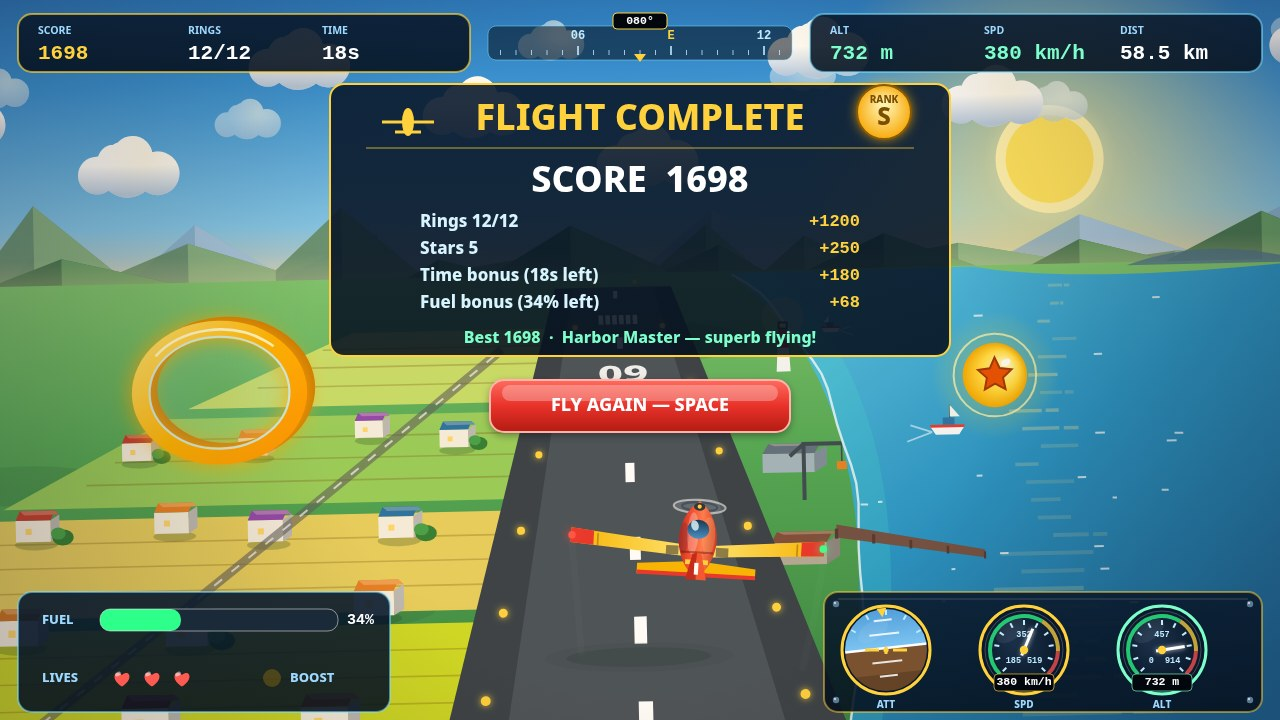
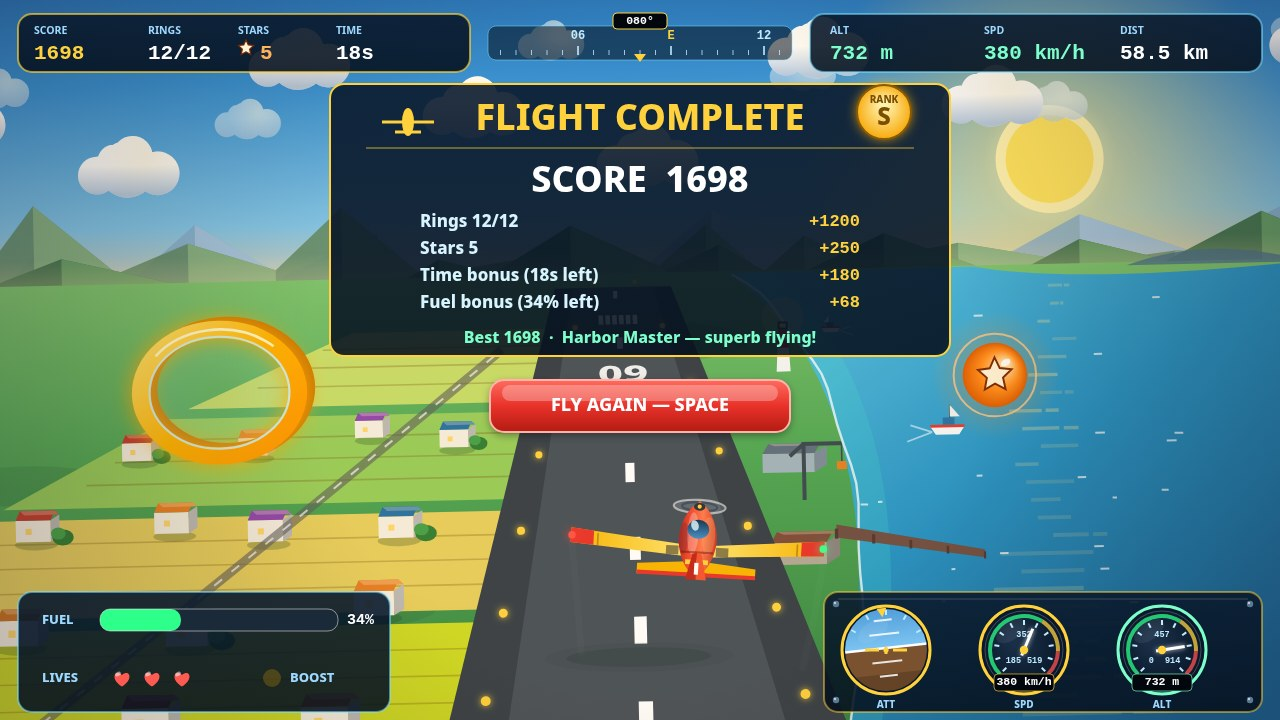
Trap storm guards for rings, amber orb, HUD star tally
- world.js: about one ring in three spawns a guard storm at the
  same depth, 80-115 collision px from the ring centre (ring scores
  within 105, cloud hits within 62), so the centre always stays
  passable but a sloppy line is punished; capped at 6 clouds
- shots.js: play shot stages that trap — a storm crowds the near
  ring's lower-left rim while the centre and the plane's line
  stay clear
- render.js: orb body is amber-orange with a pale cream star glyph
  (was yellow-gold like the rings, glyph orange-red); legend mini
  orb matches; HUD gains a STARS tally beside RINGS, from s.stars

diff --git a/game/src/render.js b/game/src/render.js
@@ -1034,27 +1034,28 @@ export function createRenderer(canvas) {
         ctx.restore();
         if (it.z < 200) nearRing = {x, y, r: rr2, lw, squash};
       } else if (it.kind === 'star') {
-        // checkpoint orb: a glossy gold sphere in a thin ring of light,
-        // with a deep orange-red star glyph on its face — strong
-        // contrast so the star still reads at screenshot size
+        // checkpoint orb: a glossy AMBER-ORANGE sphere in a thin ring
+        // of light — orange by hue, so it separates at a glance from
+        // the yellow-gold rings; the star glyph is pale cream with a
+        // dark outline, so it stays readable on the orange face
         const rs = r * 0.52;
         ctx.save();
         const glow = ctx.createRadialGradient(x, y, rs * 0.2, x, y, rs * 2.0);
-        glow.addColorStop(0, 'rgba(255,220,40,0.38)');
-        glow.addColorStop(1, 'rgba(255,220,40,0)');
+        glow.addColorStop(0, 'rgba(255,138,20,0.40)');
+        glow.addColorStop(1, 'rgba(255,138,20,0)');
         ctx.fillStyle = glow;
         ctx.beginPath(); ctx.arc(x, y, rs * 2.0, 0, 7); ctx.fill();
-        ctx.strokeStyle = 'rgba(255,240,170,0.75)';
+        ctx.strokeStyle = 'rgba(255,196,130,0.8)';
         ctx.lineWidth = 2;
         ctx.beginPath(); ctx.arc(x, y, rs * 1.28, 0, 7); ctx.stroke();
         const sph = ctx.createRadialGradient(x + rs * 0.35, y - rs * 0.35, rs * 0.1, x, y, rs);
-        sph.addColorStop(0, '#fff6ae'); sph.addColorStop(0.55, '#ffd93d'); sph.addColorStop(1, '#f0a500');
+        sph.addColorStop(0, '#ffdca3'); sph.addColorStop(0.55, '#ff8c1a'); sph.addColorStop(1, '#dd5a00');
         ctx.fillStyle = sph;
         ctx.beginPath(); ctx.arc(x, y, rs, 0, 7); ctx.fill();
-        ctx.fillStyle = '#e64d00';
+        ctx.fillStyle = '#fff3d6';
         starPath(x, y, rs * 0.55);
         ctx.fill();
-        ctx.strokeStyle = '#9c3200';
+        ctx.strokeStyle = '#7a2800';
         ctx.lineWidth = Math.max(1.2, rs * 0.06);
         starPath(x, y, rs * 0.55);
         ctx.stroke();
@@ -1176,9 +1177,20 @@ export function createRenderer(canvas) {
       hudStat('SPD', spdKmh(s.speed) + ' km/h', 1066, '#7dffcb');
     } else {
       panel(18, 14, 452, 58, 'rgba(255,210,61,0.65)');
-      hudStat('SCORE', String(s.score), 38, '#ffd23d');
-      hudStat('RINGS', s.rings + '/12', 188, '#ffffff');
-      hudStat('TIME', Math.ceil(s.left) + 's', 322, s.left < 15 ? '#ff8a80' : '#ffffff');
+      hudStat('SCORE', String(s.score), 34, '#ffd23d');
+      hudStat('RINGS', s.rings + '/12', 148, '#ffffff');
+      // star tally beside the rings count: the orb's cream star glyph
+      // at pill scale, with the collected count from the world state
+      text('STARS', 238, 31, 10.5, '#9fd8ff', 'left', 700);
+      ctx.fillStyle = '#fff3d6';
+      starPath(246, 48, 8);
+      ctx.fill();
+      ctx.strokeStyle = '#7a2800';
+      ctx.lineWidth = 1.2;
+      starPath(246, 48, 8);
+      ctx.stroke();
+      textM(String(s.stars), 260, 54, 21, '#ffb35c', 'left');
+      hudStat('TIME', Math.ceil(s.left) + 's', 336, s.left < 15 ? '#ff8a80' : '#ffffff');
       panel(810, 14, 452, 58, 'rgba(125,223,255,0.55)');
       hudStat('ALT', altM(s.alt) + ' m', 830, '#7dffcb');
       hudStat('SPD', spdKmh(s.speed) + ' km/h', 984, '#7dffcb');
@@ -1300,18 +1312,19 @@ export function createRenderer(canvas) {
       ctx.beginPath(); ctx.ellipse(348, 302, 12, 11, 0, 0, 7); ctx.stroke();
       ctx.restore();
       text('Ring — fly through +100', 370, 302, 14.5, '#eaf7ff', 'left');
-      // mini orb: the checkpoint sphere with its contrast star
-      ctx.strokeStyle = 'rgba(255,240,170,0.75)';
+      // mini orb: the checkpoint sphere with its contrast star —
+      // same amber-orange body and cream glyph as the course orb
+      ctx.strokeStyle = 'rgba(255,196,130,0.8)';
       ctx.lineWidth = 1.6;
       ctx.beginPath(); ctx.arc(578, 302, 14, 0, 7); ctx.stroke();
       const lsg = ctx.createRadialGradient(582, 298, 1, 578, 302, 11);
-      lsg.addColorStop(0, '#fff6ae'); lsg.addColorStop(0.55, '#ffd93d'); lsg.addColorStop(1, '#f0a500');
+      lsg.addColorStop(0, '#ffdca3'); lsg.addColorStop(0.55, '#ff8c1a'); lsg.addColorStop(1, '#dd5a00');
       ctx.fillStyle = lsg;
       ctx.beginPath(); ctx.arc(578, 302, 11, 0, 7); ctx.fill();
-      ctx.fillStyle = '#e64d00';
+      ctx.fillStyle = '#fff3d6';
       starPath(578, 302, 6);
       ctx.fill();
-      ctx.strokeStyle = '#9c3200';
+      ctx.strokeStyle = '#7a2800';
       ctx.lineWidth = 1;
       starPath(578, 302, 6);
       ctx.stroke();

diff --git a/game/src/world.js b/game/src/world.js
@@ -4,7 +4,26 @@ export const EVENT_RING=1, EVENT_HIT=2, EVENT_OVER=4;
 export function createWorld(rand){
  const s={time:0,left:RUN_SECONDS,score:0,rings:0,stars:0,lives:LIVES,alt:1240,speed:186,heading:74,pitch:0,bank:0,x:640,y:360,fuel:86,dist:0,items:[],flash:0,seedOff:0,fx:[],boost:false,cloudShift:0};
  let spawn=0, ringsSpawned=0;
- function add(kind,z){ const it={kind,z:z??(900+rand()*500),lane:(rand()*2-1),h:(rand()*2-1),done:false}; if(kind==='ring'){ ringsSpawned++; it.big = ringsSpawned===12; } s.items.push(it); }
+ function add(kind,z){ const it={kind,z:z??(900+rand()*500),lane:(rand()*2-1),h:(rand()*2-1),done:false}; if(kind==='ring'){ ringsSpawned++; it.big = ringsSpawned===12; } s.items.push(it); if(kind==='ring') trapFor(it); }
+ // Trap pattern, mixed in with the fully random spawns: about one
+ // ring in three also gets a storm cell guarding it at the same
+ // depth, crowding one edge of the ring. Distances are collision
+ // space (a ring scores within 105 of its centre, a cloud hits
+ // within 62), so a guard centre 80–115 away always leaves the
+ // ring centre cleanly passable — it punishes a sloppy line, never
+ // blocks the ring. Capped so the course never floods with storms.
+ function trapFor(ring){
+   if(rand()>=0.34) return;
+   let clouds=0; for(const i of s.items) if(i.kind==='cloud') clouds++;
+   if(clouds>=6) return;
+   for(let k=0;k<6;k++){
+     const a=rand()*Math.PI*2, d=80+rand()*35;
+     const lane=ring.lane+Math.cos(a)*d/260, h=ring.h+Math.sin(a)*d/120;
+     if(lane<-1.35||lane>1.35||h<-1||h>1) continue;
+     s.items.push({kind:'cloud',z:ring.z+(rand()*40-20),lane,h,done:false});
+     return;
+   }
+ }
  function popup(text,kind,burst){ s.fx.push({x:s.x+(rand()*70-35),y:s.y-95,text,kind,t:0,burst:!!burst,seed:rand()*3}); }
  function reset(){ Object.assign(s,{time:0,left:RUN_SECONDS,score:0,rings:0,stars:0,lives:LIVES,alt:1240,speed:186,heading:74,pitch:0,bank:0,x:640,y:360,fuel:86,dist:0,items:[],flash:0,fx:[],boost:false,cloudShift:0}); spawn=0; ringsSpawned=0; for(let i=0;i<7;i++) add(i%3==2?'cloud':'ring',300+i*190); }
  function step(dt,move,title){

diff --git a/game/src/shots.js b/game/src/shots.js
@@ -6,7 +6,8 @@ import {SCREEN_TITLE, SCREEN_PLAY, SCREEN_OVER} from './render.js';
 // of the harbour — different plane position, altitude and distance, so
 // the parallaxed terrain, harbour and runway compose differently in
 // every shot. Items are placed so the ring, star, storm cloud, plane
-// and UI never overlap.
+// and UI never overlap — with one deliberate exception in the play
+// shot, where a trap storm crowds the near ring (see there).
 export function stageShot(name, world) {
   world.reset();
   const s = world.state;
@@ -20,7 +21,11 @@ export function stageShot(name, world) {
     // horizon: two rings ahead in a near-concentric pair chained by
     // the guide line, star off the left wingtip, storm cell over the
     // harbour edge, and the +FUEL popup floats over the plane where a
-    // ring pass would have spawned it.
+    // ring pass would have spawned it. A second storm plays the trap
+    // the game now spawns for real: it crowds the near ring's
+    // lower-left rim, so the still reads "thread the clear centre,
+    // mind the storm" — the ring centre and the plane's line to it
+    // stay clear above the cell.
     s.time = 24; s.left = 90 - s.time;
     s.score = 400; s.rings = 4; s.stars = 3;
     s.alt = 2400; s.speed = 198; s.fuel = 72; s.dist = 8.2;
@@ -30,6 +35,7 @@ export function stageShot(name, world) {
       {kind: 'ring', z: 300, lane: 0.10, h: -1.00, done: false},
       {kind: 'ring', z: 850, lane: 0.34, h: -1.00, done: false},
       {kind: 'star', z: 520, lane: -1.15, h: -1.00, done: false},
+      {kind: 'cloud', z: 330, lane: -0.27, h: 0.17, done: false},
       {kind: 'cloud', z: 760, lane: 1.38, h: 0.55, done: false},
     ];
     s.fx = [
